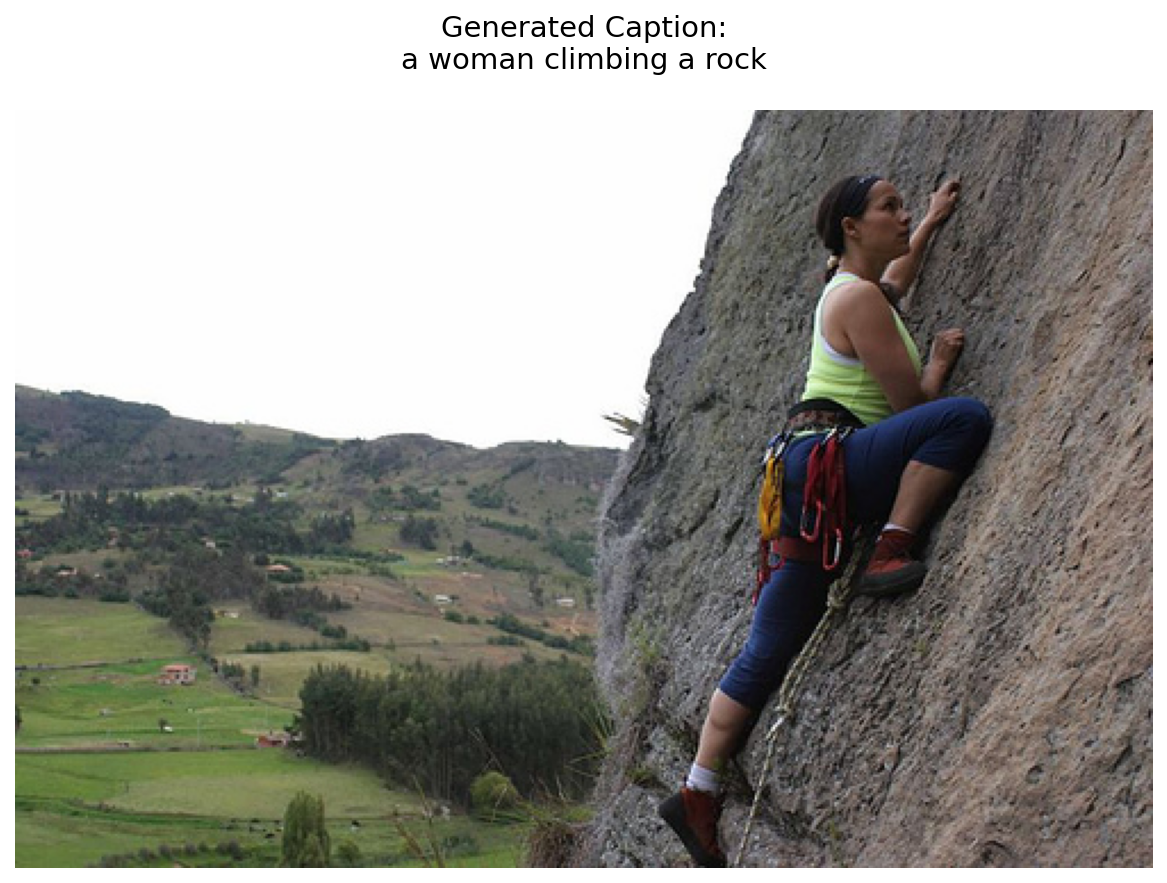
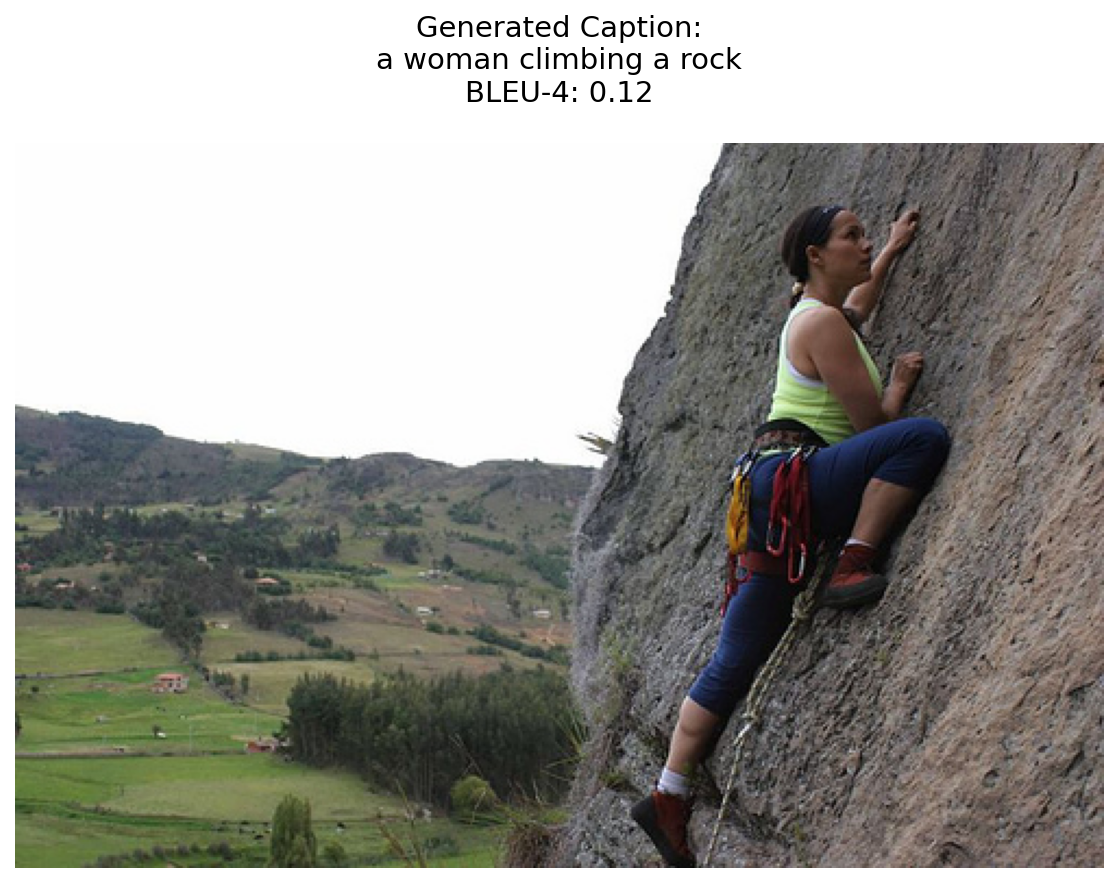
update bleu metric implementation

diff --git a/task2/image-captioning/eval/helpers.py b/task2/image-captioning/eval/helpers.py
@@ -3,9 +3,10 @@ import os
 sys.path.append(os.path.abspath(os.path.join(os.path.dirname(__file__), '..')))
 
 import torch
+import csv
 import torchvision.transforms as transforms
 from PIL import Image
-from nltk.translate.bleu_score import sentence_bleu
+from nltk.translate.bleu_score import sentence_bleu, SmoothingFunction
 from utils.datasets import FlickrDataset
 from utils.captions import CaptionCollate
 from models.captioner import ImageCaptioningModel
@@ -70,12 +71,55 @@ def generate_caption(image_path, model, vocab, device, max_length=20):
     caption = " ".join(caption_words)
     return caption, image
 
-def calculate_bleu(reference_captions, generated_caption):
+# def calculate_bleu(reference_captions, generated_caption):
+#     """
+#     reference_captions: list of actual captions
+#     generated_caption: model's predicted caption
+#     """
+#     reference = [ref.split() for ref in reference_captions]
+#     candidate = generated_caption.split()
+#     score = sentence_bleu(reference, candidate)
+#     return score
+
+def calculate_bleu(image_path, generated_caption, captions_file='captions.txt'):
     """
-    reference_captions: list of actual captions
-    generated_caption: model's predicted caption
+    Calculate BLEU-4 score for a generated caption given an image path and a captions file.
+
+    Args:
+        image_path (str): Path to the image file (used to match in captions.txt).
+        generated_caption (str): Caption generated by the model.
+        captions_file (str): Path to the captions.txt file.
+
+    Returns:
+        float: BLEU-4 score.
     """
-    reference = [ref.split() for ref in reference_captions]
+    # Extract image filename (e.g. '1000268201_693b08cb0e.jpg')
+    image_name = os.path.basename(image_path)
+
+    # Read reference captions for this image
+    reference_captions = []
+    with open(captions_file, 'r', encoding='utf-8') as f:
+        reader = csv.reader(f)
+        next(reader)  # skip header: image,caption
+        for img, caption in reader:
+            if img.strip() == image_name:
+                reference_captions.append(caption.strip())
+
+    if not reference_captions:
+        print(f"[Warning] No reference captions found for {image_name}")
+        return 0.0
+
+    # Tokenize references and candidate
+    references = [ref.split() for ref in reference_captions]
     candidate = generated_caption.split()
-    score = sentence_bleu(reference, candidate)
+
+    # BLEU-4 with smoothing
+    smoothie = SmoothingFunction().method4
+    score = sentence_bleu(
+        references,
+        candidate,
+        weights=(0.25, 0.25, 0.25, 0.25),
+        smoothing_function=smoothie
+    )
+
     return score

diff --git a/task2/image-captioning/eval/visualizations.py b/task2/image-captioning/eval/visualizations.py
@@ -1,11 +1,13 @@
 import matplotlib.pyplot as plt
-from .helpers import generate_caption
+from .helpers import generate_caption, calculate_bleu
 
 def visualize_prediction(image_path, model, vocab, device):
     """
     Generate and display caption for an image.
     """
     caption, image = generate_caption(image_path, model, vocab, device)
+    bleu_score = calculate_bleu(image_path, caption, captions_file='../dataset/captions.txt')
+    caption += f"\nBLEU-4: {bleu_score:.2f}"
 
     # Display image with caption
     plt.figure(figsize=(10, 6))
@@ -34,6 +36,8 @@ def create_demo_grid(image_paths, model, vocab, device):
 
     for idx, img_path in enumerate(image_paths):
         caption, image = generate_caption(img_path, model, vocab, device)
+        bleu_score = calculate_bleu(img_path, caption, captions_file='../dataset/captions.txt')
+        caption += f"\nBLEU-4: {bleu_score:.2f}"
 
         axes[idx].imshow(image)
         axes[idx].axis('off')
@@ -44,5 +48,5 @@ def create_demo_grid(image_paths, model, vocab, device):
         axes[idx].axis('off')
 
     plt.tight_layout()
-    plt.savefig('../img/demo_grid.png', dpi=150, bbox_inches='tight')
+    plt.savefig('../img/demo_grid2.png', dpi=150, bbox_inches='tight')
     plt.show()

diff --git a/task2/image-captioning/scripts/inference.py b/task2/image-captioning/scripts/inference.py
@@ -37,4 +37,4 @@ if __name__ == "__main__":
     # Run demo inference
     checkpoint_path = "../artifacts/models/image_captioning_model4.pth"
     image_path = "../dataset/test/93922153_8d831f7f01.jpg"
-    run_inference(checkpoint_path, multiple=False, image_path=image_path)
+    run_inference(checkpoint_path, multiple=True, image_path=image_path)
